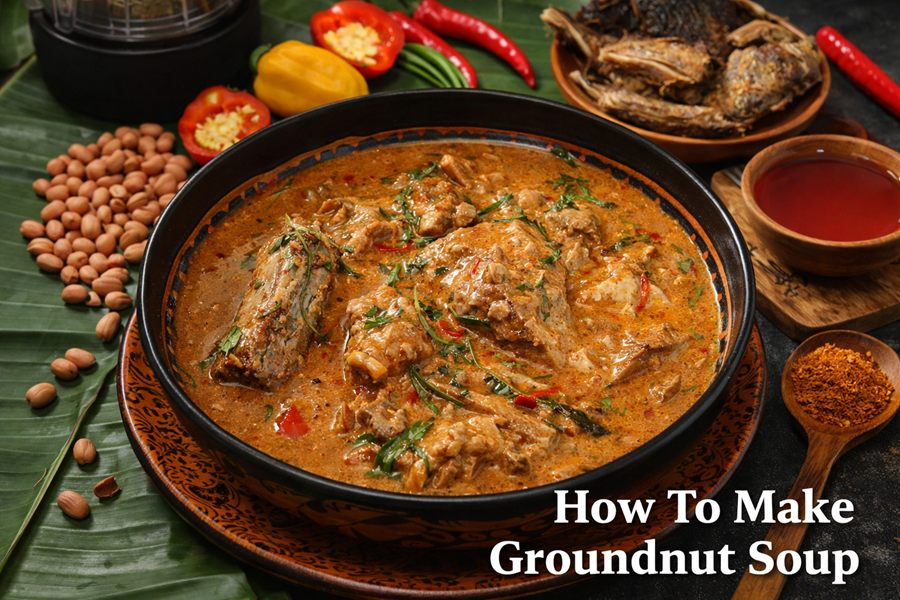
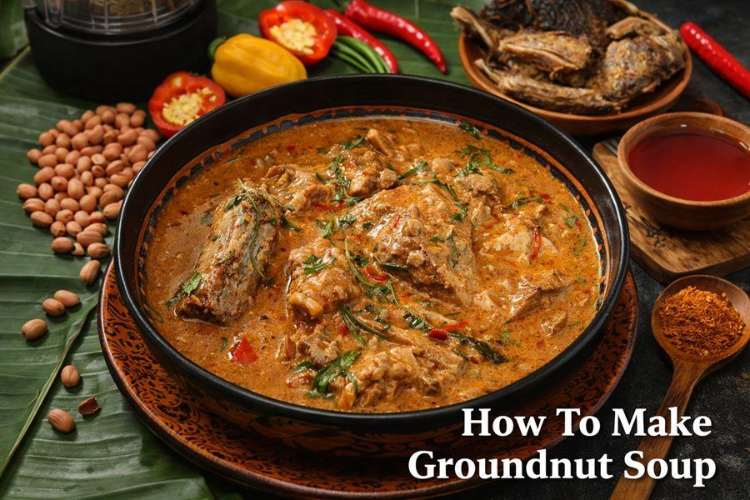
Resolve final project audit findings

diff --git a/final/styles/small.css b/final/styles/small.css
@@ -10,6 +10,7 @@
   --orange: #1B5E20;
   --orange-bright: #F9A825;
   --gold: #F9A825;
+  --gold-accessible: #FFD54F;
   --line: rgba(51, 51, 51, .22);
   --serif: "Poppins", Arial, sans-serif;
   --sans: Arial, sans-serif;
@@ -60,7 +61,7 @@ h1 em, h2 em { color: var(--orange); font-weight: 400; }
 .button-dark:hover { background: var(--green); }
 .button-outline { border-color: var(--green); color: var(--green-deep); background: transparent; }
 .button-outline:hover { color: var(--white); background: var(--green-deep); }
-.button-paper { color: var(--green-deep); background: var(--gold); }
+.button-paper { color: var(--green-deep); background: var(--gold-accessible); }
 .button-paper:hover { background: white; }
 .text-link { display: inline-flex; align-items: center; gap: .65rem; padding: .5rem 0; color: var(--green-deep); font-size: .88rem; font-weight: 750; text-decoration-thickness: 1px; text-underline-offset: 4px; }
 .text-link:hover { color: var(--orange); }
@@ -132,12 +133,12 @@ h1 em, h2 em { color: var(--orange); font-weight: 400; }
 .place-callout { overflow: hidden; color: var(--white); background: var(--green-deep); }
 .place-callout-inner { position: relative; display: grid; min-height: 410px; grid-template-columns: 1fr 1.1fr .45fr; align-items: center; gap: 2rem; padding-block: 4rem; }
 .place-callout-inner::after { position: absolute; top: -12rem; right: 11%; width: 34rem; height: 34rem; border: 1px solid rgba(246,241,230,.14); border-radius: 50%; box-shadow: 0 0 0 35px rgba(246,241,230,.025), 0 0 0 80px rgba(246,241,230,.02); content: ""; }
-.place-stamp { position: relative; z-index: 1; display: flex; width: 190px; height: 190px; align-items: center; justify-content: center; flex-direction: column; gap: .55rem; margin-inline: auto; transform: rotate(-10deg); border: 1px solid var(--gold); border-radius: 50%; color: var(--gold); font-size: .74rem; font-weight: 800; letter-spacing: .13em; line-height: 1.45; text-align: center; }
+.place-stamp { position: relative; z-index: 1; display: flex; width: 190px; height: 190px; align-items: center; justify-content: center; flex-direction: column; gap: .55rem; margin-inline: auto; transform: rotate(-10deg); border: 1px solid var(--gold-accessible); border-radius: 50%; color: var(--gold-accessible); font-size: .74rem; font-weight: 800; letter-spacing: .13em; line-height: 1.45; text-align: center; }
 .place-stamp b { font-size: 1.5rem; font-weight: 400; }
 .place-callout-copy { position: relative; z-index: 1; max-width: 460px; }
 .eyebrow-light { color: #FFF8E1; }
 .place-callout-copy h2, .recommend-intro h2 { margin: 0 0 1rem; font-size: clamp(3.2rem, 6vw, 5.2rem); letter-spacing: -.06em; line-height: .94; }
-.place-callout-copy h2 em, .recommend-intro h2 em { color: var(--gold); }
+.place-callout-copy h2 em, .recommend-intro h2 em { color: var(--gold-accessible); }
 .place-callout-copy > p:not(.eyebrow) { max-width: 420px; margin-bottom: 1.4rem; color: #FFF8E1; }
 .callout-side-note { z-index: 1; align-self: end; margin: 0 0 2rem; color: #FFF8E1; font-size: .6rem; font-weight: 800; letter-spacing: .14em; line-height: 1.9; }
 
@@ -266,7 +267,7 @@ h1 em, h2 em { color: var(--orange); font-weight: 400; }
 .recommend-intro h2 { margin-top: 1.2rem; font-size: clamp(3rem, 6vw, 4.8rem); }
 .recommend-intro > p:not(.eyebrow) { color: #FFF8E1; }
 .recommend-intro .form-privacy { display: flex; gap: .65rem; margin-top: 2rem; padding-top: 1rem; border-top: 1px solid rgba(255,255,255,.25); color: #FFF8E1; font-size: .76rem; }
-.form-privacy span { color: var(--gold); }
+.form-privacy span { color: var(--gold-accessible); }
 .recommend-form { display: grid; gap: 1rem; padding: clamp(1.2rem, 3vw, 2rem); color: var(--ink); background: var(--paper); }
 .form-field { display: grid; gap: .35rem; }
 .form-field label span { color: var(--orange); }
@@ -307,15 +308,11 @@ h1 em, h2 em { color: var(--orange); font-weight: 400; }
 .footer-brand .brand-mark { border: 1px solid rgba(246,241,230,.55); color: var(--green-deep); background: var(--paper); }
 .footer-thought { max-width: 230px; margin: 0; color: #FFF8E1; font-family: var(--serif); font-size: 1.1rem; font-style: italic; }
 .footer-links { display: flex; justify-content: end; flex-wrap: wrap; gap: .7rem 1.25rem; color: #FFF8E1; font-family: var(--serif); font-size: .8rem; }
-.footer-links a:hover { color: var(--gold); text-decoration: underline; text-underline-offset: 4px; }
+.footer-links a:hover { color: var(--gold-accessible); text-decoration: underline; text-underline-offset: 4px; }
 .footer-bottom { display: flex; align-items: start; justify-content: space-between; gap: 1.5rem; padding-block: 1rem 1.2rem; border-top: 1px solid rgba(255,255,255,.2); color: #FFF8E1; font-size: .7rem; }
 .footer-bottom > p { margin: 0; }
 .video-placeholder { max-width: 620px; text-align: right; }
-.video-placeholder strong { color: var(--gold); }
-
-@media (min-width: 1300px) {
-  .home-hero { min-height: 620px; }
-}
+.video-placeholder strong { color: var(--gold-accessible); }
 
 @media (max-width: 820px) {
   .home-hero { min-height: auto; grid-template-columns: 1fr .8fr; gap: 1.5rem; padding-block: 3.5rem; }

diff --git a/final/index.html b/final/index.html
@@ -9,13 +9,16 @@
   <meta property="og:title" content="Kampala Food Explorer — Ugandan food and places">
   <meta property="og:description" content="Explore Ugandan dishes, dining places, and everyday food culture in Kampala.">
   <meta property="og:locale" content="en_UG">
+  <meta property="og:image" content="https://lukedira02-boop.github.io/wdd231/final/images/provided-food-2.webp">
+  <meta property="og:url" content="https://lukedira02-boop.github.io/wdd231/final/index.html">
   <title>Kampala Food Explorer | Ugandan food and places</title>
   <link rel="icon" href="favicon.svg" type="image/svg+xml">
   <link rel="preconnect" href="https://fonts.googleapis.com">
   <link rel="preconnect" href="https://fonts.gstatic.com" crossorigin>
   <link href="https://fonts.googleapis.com/css2?family=Poppins:wght@400;500;600;700;800&display=swap" rel="stylesheet">
-  <link rel="stylesheet" href="styles.css">
-  <script type="module" src="site.js"></script>
+  <link rel="stylesheet" href="styles/small.css">
+  <link rel="stylesheet" href="styles/larger.css">
+  <script type="module" src="scripts/site.js"></script>
 </head>
 <body>
   <a class="skip-link" href="#main-content">Skip to content</a>
@@ -47,7 +50,7 @@
         <p class="hero-note"><span class="note-stamp">FIELD NOTE 01</span> Start in Kansanga. Let your appetite lead.</p>
       </div>
       <figure class="hero-art hero-photo">
-        <img src="images/provided-food-1.webp" alt="Restaurant dining room with tables, a counter, pendant lights, and diners." width="382" height="235" fetchpriority="high">
+        <img src="images/provided-food-1.jpg" alt="Restaurant dining room with tables, a counter, pendant lights, and diners." width="382" height="235" fetchpriority="high">
         <figcaption class="art-caption">Make a little room for discovery.</figcaption>
       </figure>
     </section>
@@ -78,7 +81,7 @@
           <div class="feature-text"><p class="dish-category">A TABLE CENTERPIECE</p><h3>Matooke</h3><p>Green bananas gently steamed until tender, often served with a sauce or stew to bring the plate together.</p><a class="text-link" href="foods.html#matooke">Read the field note <span aria-hidden="true">→</span></a></div>
         </article>
         <article class="feature-story feature-groundnut">
-          <figure class="feature-art feature-photo"><img src="images/groundnut-soup.jpg" alt="A bowl of orange-brown groundnut soup with peanuts and herbs; the image includes the baked-in headline “How To Make Groundnut Soup.”" width="900" height="600" loading="lazy" decoding="async"><figcaption class="feature-number">03 · GROUNDNUT SAUCE</figcaption></figure>
+          <figure class="feature-art feature-photo"><img src="images/groundnut-soup.jpg" alt="A bowl of orange-brown groundnut soup with peanuts and herbs; the image includes the baked-in headline “How To Make Groundnut Soup.”" width="750" height="500" loading="lazy" decoding="async"><figcaption class="feature-number">03 · GROUNDNUT SAUCE</figcaption></figure>
           <div class="feature-text"><p class="dish-category">RICH & COMFORTING</p><h3>Groundnut sauce</h3><p>Peanut-rich sauce brings a deep, savory note to staples like matooke, sweet potato, or cassava.</p><a class="text-link" href="foods.html#groundnut-sauce">Read the field note <span aria-hidden="true">→</span></a></div>
         </article>
       </div>

diff --git a/final/form-action.html b/final/form-action.html
@@ -5,14 +5,20 @@
   <meta name="viewport" content="width=device-width, initial-scale=1">
   <meta name="description" content="Review the Kansanga food recommendation you just submitted, or return to the neighborhood guide.">
   <meta name="author" content="Dira Luke">
+  <meta property="og:type" content="website">
+  <meta property="og:title" content="Recommendation received | Kampala Food Explorer">
+  <meta property="og:description" content="Review the food recommendation you just shared and keep exploring Kampala's food culture.">
+  <meta property="og:image" content="https://lukedira02-boop.github.io/wdd231/final/images/provided-food-3.webp">
+  <meta property="og:url" content="https://lukedira02-boop.github.io/wdd231/final/form-action.html">
   <title>Recommendation received | Kampala Food Explorer</title>
   <link rel="icon" href="favicon.svg" type="image/svg+xml">
   <link rel="preconnect" href="https://fonts.googleapis.com">
   <link rel="preconnect" href="https://fonts.gstatic.com" crossorigin>
   <link href="https://fonts.googleapis.com/css2?family=Poppins:wght@400;500;600;700;800&display=swap" rel="stylesheet">
-  <link rel="stylesheet" href="styles.css">
-  <script type="module" src="site.js"></script>
-  <script type="module" src="form-action.js"></script>
+  <link rel="stylesheet" href="styles/small.css">
+  <link rel="stylesheet" href="styles/larger.css">
+  <script type="module" src="scripts/site.js"></script>
+  <script type="module" src="scripts/form-action.js"></script>
 </head>
 <body>
   <a class="skip-link" href="#main-content">Skip to content</a>

diff --git a/final/attributions.html b/final/attributions.html
@@ -5,13 +5,19 @@
   <meta name="viewport" content="width=device-width, initial-scale=1">
   <meta name="description" content="Credits for the writing, design, code, and supplied food and restaurant photographs used in Kampala Food Explorer.">
   <meta name="author" content="Dira Luke">
+  <meta property="og:type" content="website">
+  <meta property="og:title" content="Attributions | Kampala Food Explorer">
+  <meta property="og:description" content="Credits for the content, images, and code in the Kampala Food Explorer student project.">
+  <meta property="og:image" content="https://lukedira02-boop.github.io/wdd231/final/images/provided-food-2.webp">
+  <meta property="og:url" content="https://lukedira02-boop.github.io/wdd231/final/attributions.html">
   <title>Attributions | Kampala Food Explorer</title>
   <link rel="icon" href="favicon.svg" type="image/svg+xml">
   <link rel="preconnect" href="https://fonts.googleapis.com">
   <link rel="preconnect" href="https://fonts.gstatic.com" crossorigin>
   <link href="https://fonts.googleapis.com/css2?family=Poppins:wght@400;500;600;700;800&display=swap" rel="stylesheet">
-  <link rel="stylesheet" href="styles.css">
-  <script type="module" src="site.js"></script>
+  <link rel="stylesheet" href="styles/small.css">
+  <link rel="stylesheet" href="styles/larger.css">
+  <script type="module" src="scripts/site.js"></script>
 </head>
 <body>
   <a class="skip-link" href="#main-content">Skip to content</a>

diff --git a/final/foods.html b/final/foods.html
@@ -9,14 +9,17 @@
   <meta property="og:title" content="Ugandan Foods | Kampala Food Explorer">
   <meta property="og:description" content="A searchable guide to Ugandan dishes, everyday ingredients, and ways to enjoy them.">
   <meta property="og:locale" content="en_UG">
+  <meta property="og:image" content="https://lukedira02-boop.github.io/wdd231/final/images/provided-food-2.webp">
+  <meta property="og:url" content="https://lukedira02-boop.github.io/wdd231/final/foods.html">
   <title>Ugandan Foods | Kampala Food Explorer</title>
   <link rel="icon" href="favicon.svg" type="image/svg+xml">
   <link rel="preconnect" href="https://fonts.googleapis.com">
   <link rel="preconnect" href="https://fonts.gstatic.com" crossorigin>
   <link href="https://fonts.googleapis.com/css2?family=Poppins:wght@400;500;600;700;800&display=swap" rel="stylesheet">
-  <link rel="stylesheet" href="styles.css">
-  <script type="module" src="site.js"></script>
-  <script type="module" src="foods.js"></script>
+  <link rel="stylesheet" href="styles/small.css">
+  <link rel="stylesheet" href="styles/larger.css">
+  <script type="module" src="scripts/site.js"></script>
+  <script type="module" src="scripts/foods.js"></script>
 </head>
 <body>
   <a class="skip-link" href="#main-content">Skip to content</a>

diff --git a/final/places.html b/final/places.html
@@ -9,13 +9,16 @@
   <meta property="og:title" content="Explore Kansanga | Kampala Food Explorer">
   <meta property="og:description" content="Explore the flavors and everyday food places around Kansanga, and share a thoughtful recommendation.">
   <meta property="og:locale" content="en_UG">
+  <meta property="og:image" content="https://lukedira02-boop.github.io/wdd231/final/images/provided-food-3.webp">
+  <meta property="og:url" content="https://lukedira02-boop.github.io/wdd231/final/places.html">
   <title>Explore Kansanga | Kampala Food Explorer</title>
   <link rel="icon" href="favicon.svg" type="image/svg+xml">
   <link rel="preconnect" href="https://fonts.googleapis.com">
   <link rel="preconnect" href="https://fonts.gstatic.com" crossorigin>
   <link href="https://fonts.googleapis.com/css2?family=Poppins:wght@400;500;600;700;800&display=swap" rel="stylesheet">
-  <link rel="stylesheet" href="styles.css">
-  <script type="module" src="site.js"></script>
+  <link rel="stylesheet" href="styles/small.css">
+  <link rel="stylesheet" href="styles/larger.css">
+  <script type="module" src="scripts/site.js"></script>
 </head>
 <body>
   <a class="skip-link" href="#main-content">Skip to content</a>

diff --git a/final/scripts/foods.js b/final/scripts/foods.js
@@ -165,7 +165,7 @@ clearFiltersButton.addEventListener("click", () => {
 
 async function loadDishes() {
   try {
-    const response = await fetch("./foods.json");
+    const response = await fetch("../foods.json");
     if (!response.ok) throw new Error(`Dish data request failed (${response.status})`);
     const data = await response.json();
     if (!Array.isArray(data)) throw new Error("Dish data must be a list");

diff --git a/final/styles/larger.css b/final/styles/larger.css
@@ -1,0 +1,3 @@
+@media (min-width: 1300px) {
+  .home-hero { min-height: 620px; }
+}
